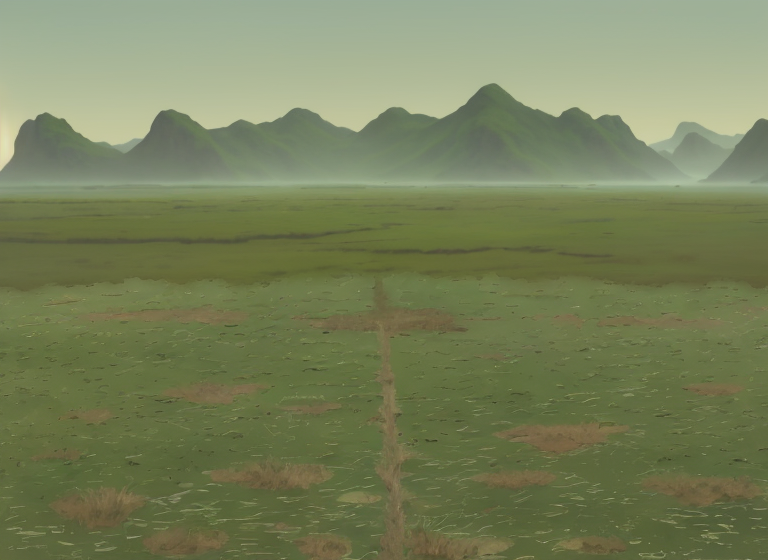
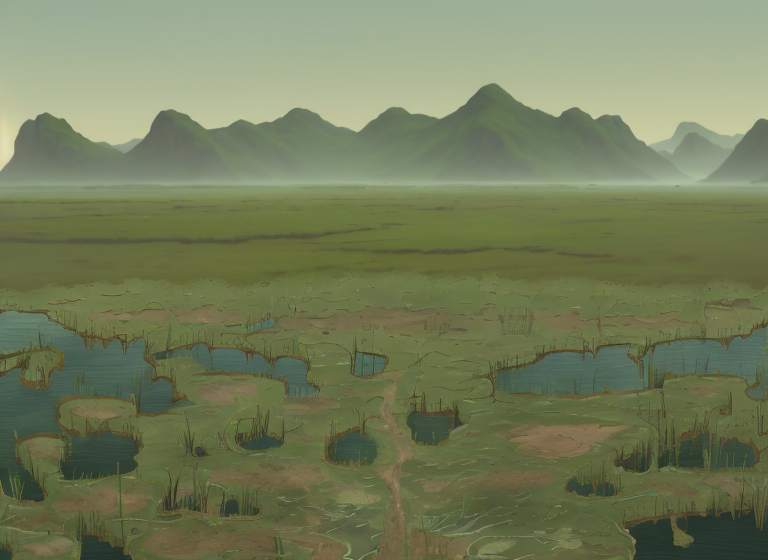
Twierdza: rozlewiska bagienne między placami (polana.py: opcja bagno, place pod ozdobami)
Claude-Session: https://claude.ai/code/session_01ACpgVGYFhc89V1nkQx4Yem

diff --git a/tools/tla-ai/polana.py b/tools/tla-ai/polana.py
@@ -42,6 +42,9 @@ for i, o in enumerate(U['slots']):
     for a in np.linspace(0, 2 * np.pi, 40, endpoint=False):  # elipsa w świecie: plac, nie prostokąt
         ex, ez = np.cos(a), np.sin(a); pts.append(I(*scr(X + ex * w, zw + (ez * back if ez > 0 else ez * front))))
     pd.polygon(pts, fill=255); fronty.append(scr(X, zw - m['front'] * k - 6))
+for o in U.get('ozdoby', []):  # małe place pod ozdobami (żeby nie stały w wodzie)
+    sx, sy = o['s']; zw = f * d / (sy - hor); X = (sx - 296) * zw / f; r0 = 16 * o.get('k', 1)
+    pd.polygon([I(*scr(X + np.cos(a) * r0, zw + np.sin(a) * r0 * 0.8)) for a in np.linspace(0, 2 * np.pi, 24, endpoint=False)], fill=255)
 # ścieżki: trakt z układu + odnoga do frontu każdej budowli od najbliższego punktu traktu
 def spline(pts, n=20):
     Q = [pts[0]] + pts + [pts[-1]]; o = []
@@ -62,6 +65,20 @@ for pts, wd in sciezki:
 place = place.filter(ImageFilter.GaussianBlur(2 * S)); pa = (np.asarray(place).astype(np.float32) / 255)[..., None]
 tx = (0.75 + 0.5 * (0.6 * noise(6) + 0.4 * noise(2)))[..., None]
 teren = np.asarray(L).astype(np.float32); teren = teren * (1 - pa * 0.85) + ziemia * tx * pa * 0.85
+if P.get('bagno'):  # bagno: woda między placami (rozlewiska i kanały), brzeg z mułu, trzciny na brzegu
+    pm = Image.fromarray((np.asarray(place) > 40).astype(np.uint8) * 255).filter(ImageFilter.MaxFilter(int(9 * S) | 1)).filter(ImageFilter.GaussianBlur(3 * S))
+    nz = 0.55 * noise(34) + 0.3 * noise(12) + 0.15 * noise(4); fy = np.clip((yy / S + 8 - P['obszar_tyl']) / 60, 0, 1)
+    wm = G & (np.asarray(pm) < 60) & (nz * fy > P['bagno'])
+    wm = np.asarray(Image.fromarray(wm.astype(np.uint8) * 255).filter(ImageFilter.MedianFilter(5))) > 128
+    brzeg = (np.asarray(Image.fromarray(wm.astype(np.uint8) * 255).filter(ImageFilter.MaxFilter(int(5 * S) | 1))) > 128) & ~wm
+    wk = np.array(P.get('woda_kolor', [[150, 170, 140], [40, 60, 48]]), np.float32); tw = np.clip((yy / S + 8 - P['obszar_tyl']) / (430 - P['obszar_tyl']), 0, 1)[..., None] ** 0.6
+    wc = wk[0] * (1 - tw) + wk[1] * tw; wc = wc * (0.92 + 0.16 * noise(3)[..., None] * (0.5 + 0.5 * np.sin(yy / S * 1.7))[..., None])
+    teren = np.where(wm[..., None], wc, teren); teren = np.where(brzeg[..., None], ziemia * 0.7 * tx, teren)
+    T = Image.fromarray(teren.clip(0, 255).astype(np.uint8)); td = ImageDraw.Draw(T); by, bx = np.nonzero(brzeg)
+    for j in rng.choice(len(bx), size=min(len(bx), int(900 * S)), replace=False):  # trzciny
+        x, y = bx[j], by[j]; k = 0.4 + (y / S + 8 - hor) / 260; hgt = (4 + 8 * rng.random()) * k * S
+        td.line([(x, y), (x + (rng.random() - 0.5) * 2 * S, y - hgt)], fill=tuple(int(v) for v in np.array([70, 90, 40]) * (0.7 + 0.6 * rng.random())), width=max(1, int(0.9 * k * S)))
+    teren = np.asarray(T).astype(np.float32)
 szkic = np.where(G[..., None], teren, a0)
 sz = Image.fromarray(szkic.clip(0, 255).astype(np.uint8)); sz.save(out.replace('.png', '-szkic.png'))
 if os.environ.get('SZKIC'): print(out.replace('.png', '-szkic.png')); sys.exit()
